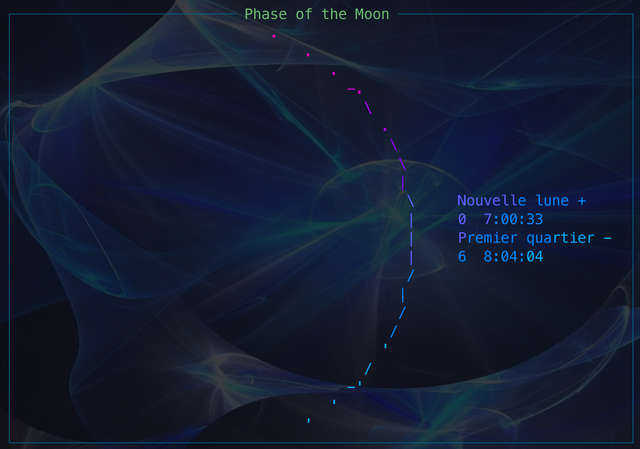
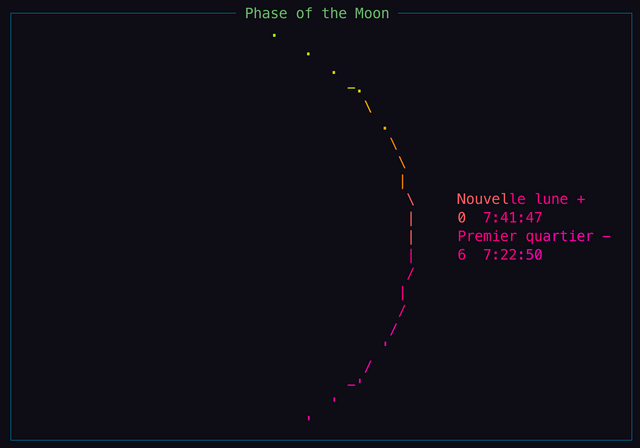
Redo screenshots with black background to avoid impression my background opacity is what the module will display

diff --git a/docs/modules/lunarphase.md b/docs/modules/lunarphase.md
@@ -19,8 +19,8 @@ lunarphase:
 ## Screenshots
 
 <p float="left">
-  <img class="screenshot" src="/assets/modules/lunarphase.png" width="320" height="640" alt="lunarphase screenshot" />
-  <img class="screenshot" src="/assets/modules/lunarphase-fr.png" width="640" height="450" alt="lunarphase french screenshot" />
+  <img class="screenshot" src="/assets/modules/lunarphase.png" width="640" height="448" alt="lunarphase screenshot" />
+  <img class="screenshot" src="/assets/modules/lunarphase-fr.png" width="640" height="448" alt="lunarphase french screenshot" />
 </p>
 
 {% set src="lunarphase" %}
